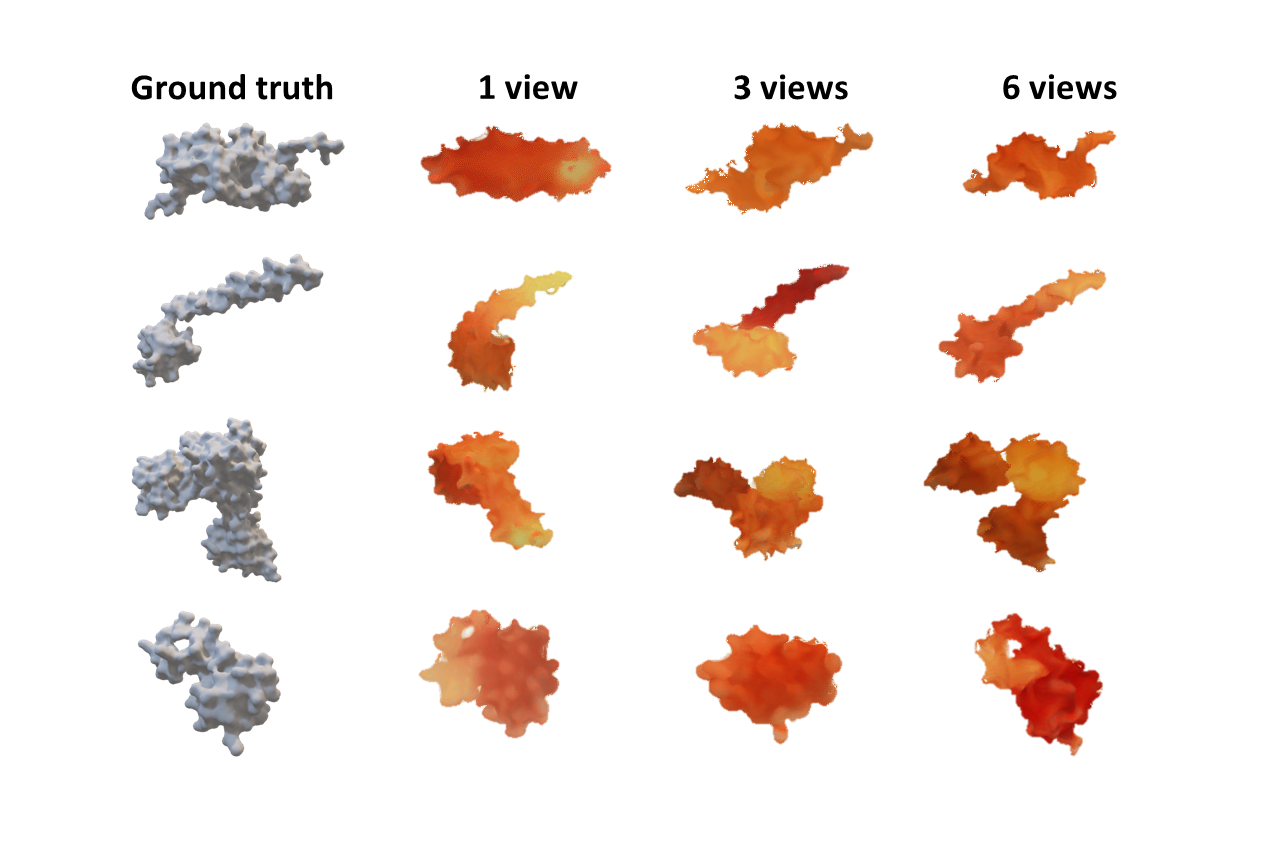
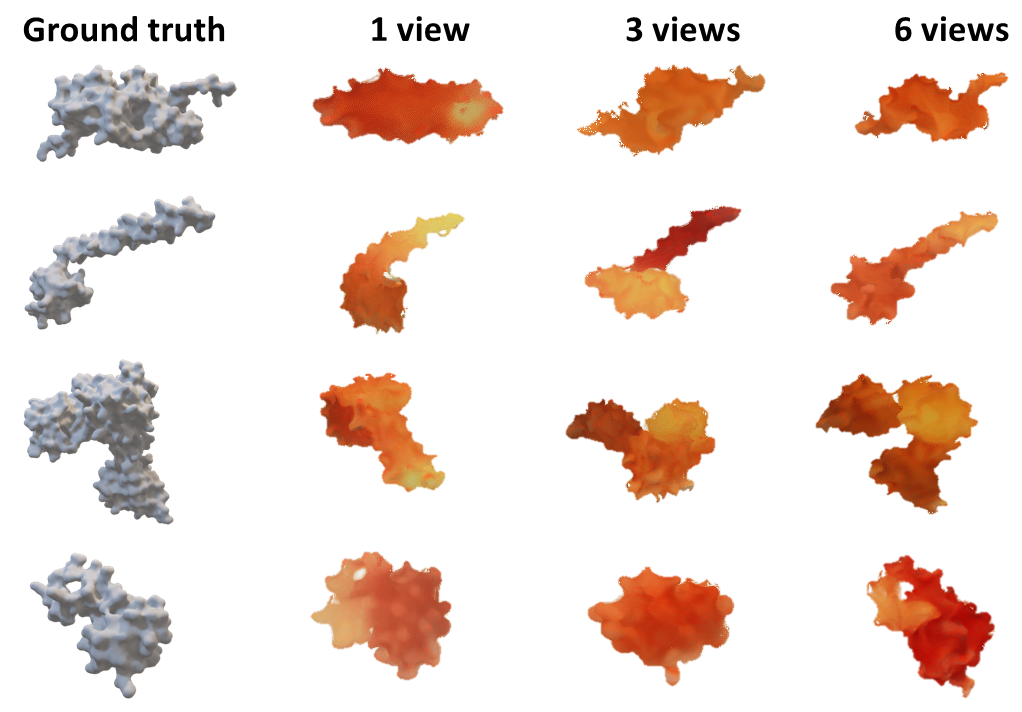
updated sizes of images on project page

diff --git a/_pages/projects.md b/_pages/projects.md
@@ -10,9 +10,9 @@ author_profile: true
 * Developing novel view synthesis methods for 3D NeRF reconstruction of protein structure using diffusion models.
 * Created Virtual AFM:gpu-accelerated computer graphics program and accelerated data generation using GNU Parallel.
 * Compiled an large dataset featuring multi-view virtual AFM images for over 550,000 voxelized 3D protein structures.
-<img src="https://jaydeepradejd.github.io/images/Projects/virtual_AFM_pipeline.png" width="600" height="400"/> <img src="https://jaydeepradejd.github.io/images/Projects/virtual_AFM.png" width="600" height="400"/>
+<img src="https://jaydeepradejd.github.io/images/Projects/virtual_AFM_pipeline.png" width="500" height="300"/> <img src="https://jaydeepradejd.github.io/images/Projects/virtual_AFM.png" width="300" height="300"/>
 
-<img src="https://jaydeepradejd.github.io/images/Projects/upfusion_predictions.png" width="800" height="600"/>
+<img src="https://jaydeepradejd.github.io/images/Projects/upfusion_predictions.png" width="500" height="300"/>
 <!-- ![virtual AFM pipeline](https://jaydeepradejd.github.io/images/Projects/virtual_AFM_pipeline.png) ![virtual AFM](https://jaydeepradejd.github.io/images/Projects/virtual_AFM.png) -->
 
 <!-- ![prediction](https://jaydeepradejd.github.io/images/Projects/upfusion_predictions.png) -->
@@ -20,7 +20,7 @@ author_profile: true
 * Implemented YOLO object detection algorithm using PyTorch for cell shape detection in AFM images.
 * Incorporated intelligent vision-based navigation for traversing the AFM scanning probe.
 
-<img src="https://jaydeepradejd.github.io/images/Projects/cell_shape_detectiojn_overview.png" width="800" height="600"/>
+<img src="https://jaydeepradejd.github.io/images/Projects/cell_shape_detection_overview.png" width="800" height="600"/>
 <!-- ![Overview](https://jaydeepradejd.github.io/images/Projects/cell_shape_detectiojn_overview.png) -->
 
 ## Deep Learning for High-resolution 3D Structural Topology Optimization
@@ -28,7 +28,7 @@ author_profile: true
 * Leveraged multigrid-style training to train up to high-resolution of 128 × 128 × 128 3D structures.
 * Achieved 5× speed up using distributed training across multiple GPUs.
 
-<img src="https://jaydeepradejd.github.io/images/Projects/multigrid.png" width="800" height="600"/>
+<img src="https://jaydeepradejd.github.io/images/Projects/multigrid.png" width="600" height="400"/>
 <!-- ![Overview](https://jaydeepradejd.github.io/images/Projects/multigrid.png) -->
 
 ## Deep Learning for Structural Topology Optimization
